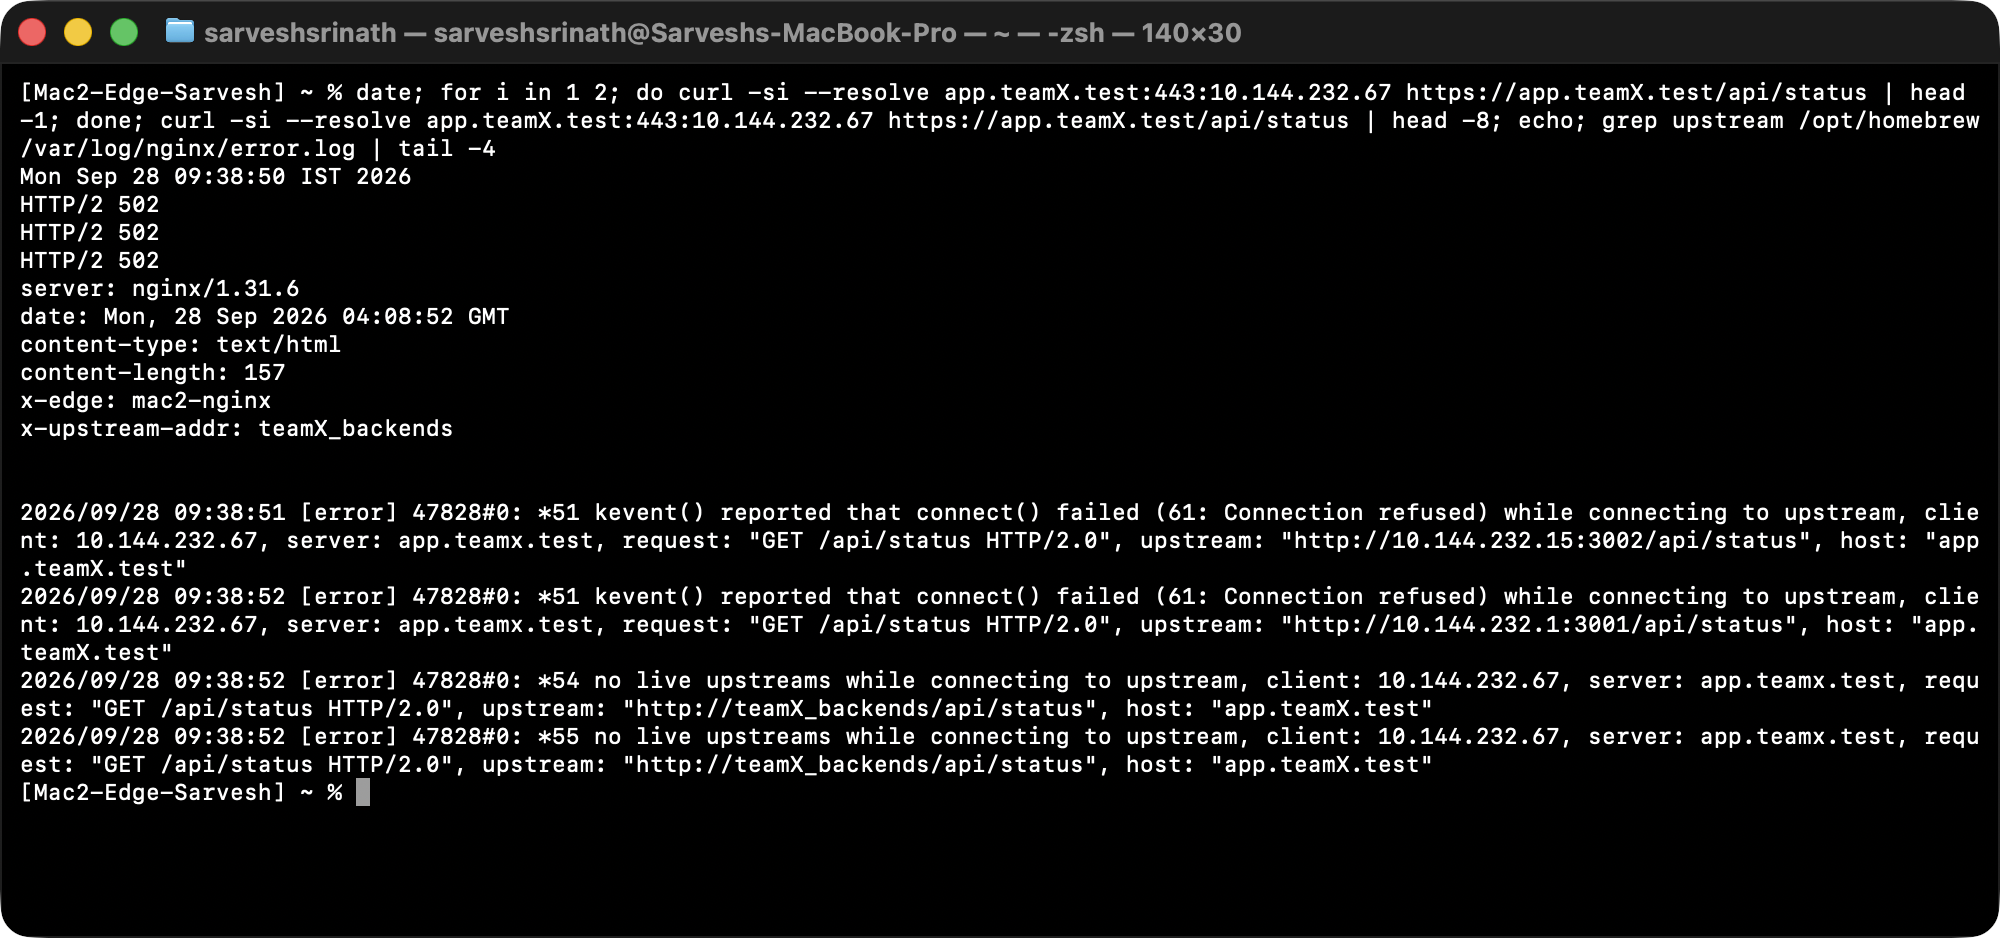
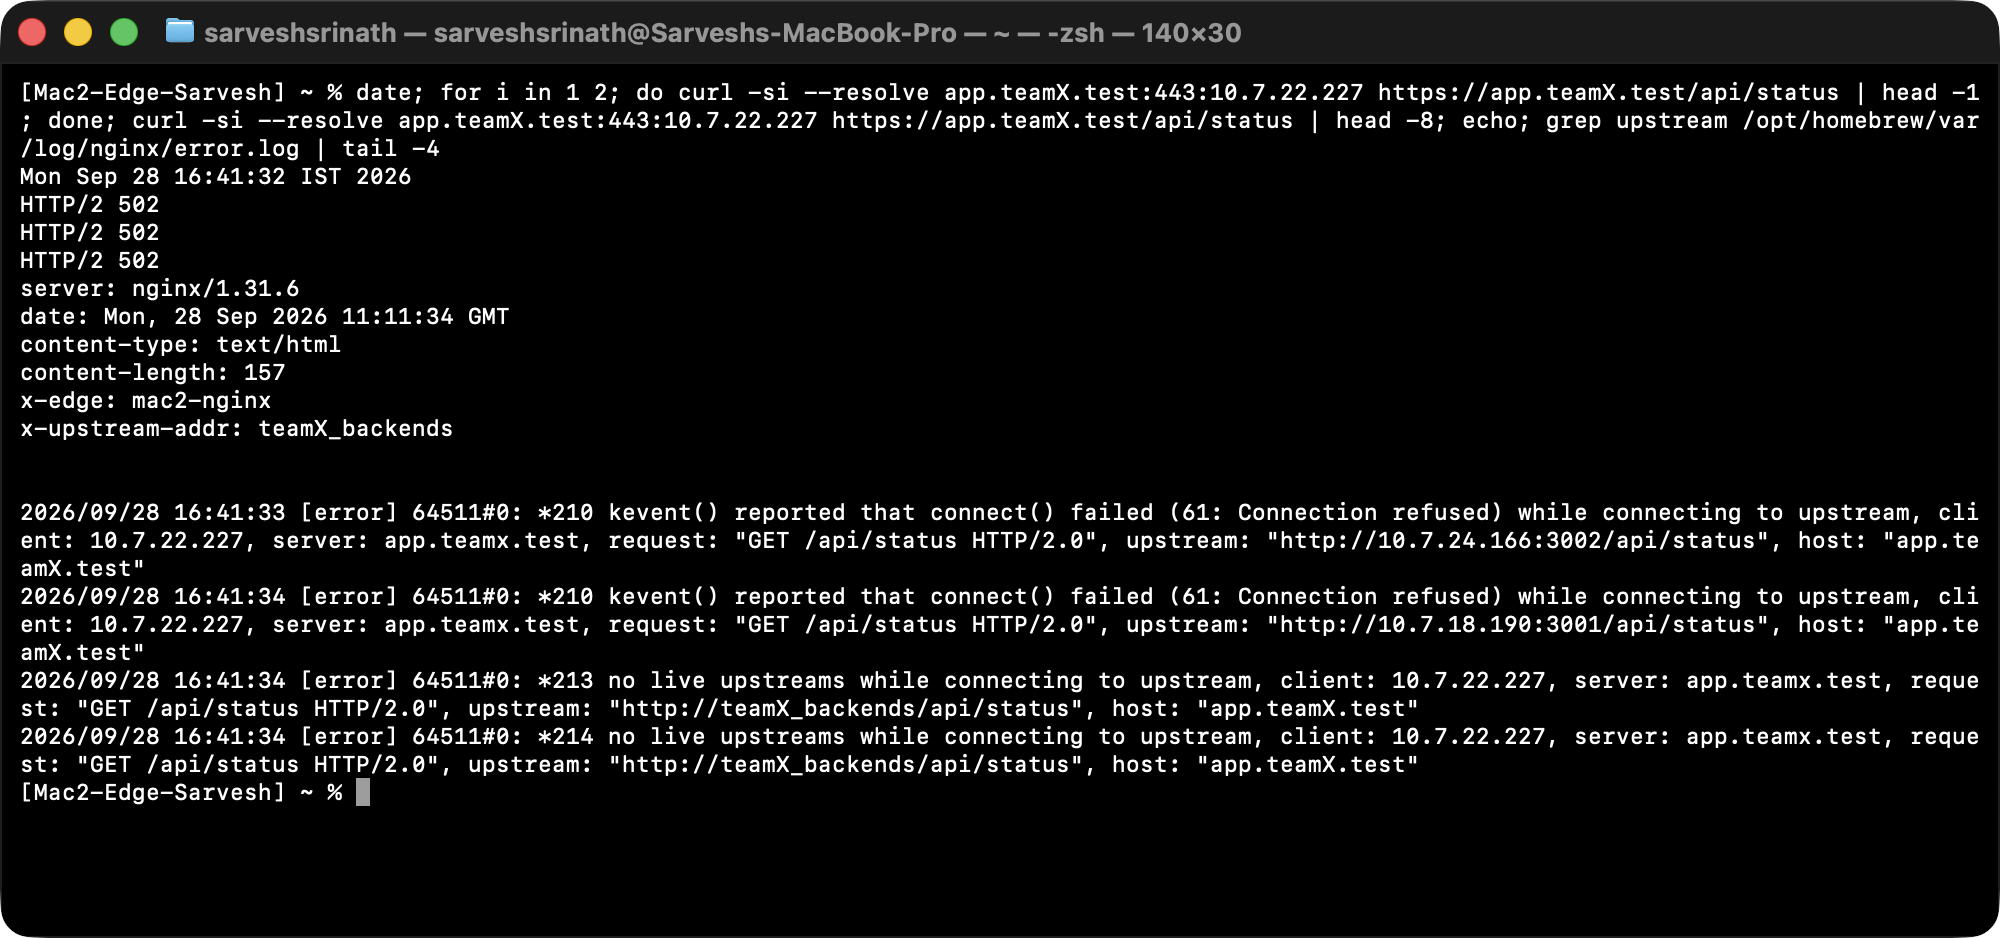
docs(phase1): move edge, IP table and diagrams to Rishihood Learners LAN
- Update IP table and architecture doc to the 10.7.0.0/19 network (gateway 10.7.0.1)
- Regenerate topology and request-flow diagrams with real addresses
- Point nginx upstreams at 10.7.18.190:3001 and 10.7.24.166:3002
- Retake Mac 2 evidence on the new network, add C-02, C-06 and H-06
- Update Navodit, Sarvesh, Trishit and team checklists with new IPs and evidence

diff --git a/06_phase1_checklists/sarvesh_mac2.md b/06_phase1_checklists/sarvesh_mac2.md
@@ -1,7 +1,7 @@
 # Sarvesh — Mac 2: edge, load balancer, and TLS
 
 **Lead:** Tasks D and E; edge side of Tasks C and G; support the backend failure demonstrations.
-**Mac 2 address in the current table:** 10.144.232.67/24 on en0; gateway 10.144.232.191. Recheck it on lab day.
+**Mac 2 address in the current table:** 10.7.22.227/19 on en0; gateway 10.7.0.1. Recheck it on lab day.
 
 Replace teamX with the assigned team number and use the current backend addresses from 01_architecture/ip_table.md.
 
@@ -23,23 +23,23 @@ Replace teamX with the assigned team number and use the current backend addresse
     route -n get default | grep -E "gateway|interface"
     networksetup -getinfo Wi-Fi
 
-- [x] Ping Macs 1, 3, and 4. Save a full-window screenshot under 04_evidence/A_lan/. Evidence: 04_evidence/A_lan/A-06_mac2_ping_all.png (0% loss to .5, .1, .15).
-- [ ] For DNS integration, set Mac 2's Wi-Fi DNS server to Mac 1 and flush the cache.
+- [x] Ping Macs 1, 3, and 4. Save a full-window screenshot under 04_evidence/A_lan/. Evidence: 04_evidence/A_lan/A-06_mac2_ping_all.png (0% loss to 10.7.10.22, 10.7.18.190, 10.7.24.166; 28 Sep 16:36).
+- [ ] For DNS integration, set Mac 2's Wi-Fi DNS server to Mac 1 and flush the cache. 28 Sep on Rishihood Learners: resolver set to 10.7.10.22 then 1.1.1.1; dig @10.7.10.22 app.teamX.test returns 10.7.22.227. macOS still holds an earlier cached failure, so the flush is pending.
 
-      sudo networksetup -setdnsservers Wi-Fi 10.144.232.5
+      sudo networksetup -setdnsservers Wi-Fi 10.7.10.22
       sudo dscacheutil -flushcache
       sudo killall -HUP mDNSResponder
       dig app.teamX.test
 
 ## 2. Confirm the backends are reachable — Tasks C and D
 
-- [ ] Ask Trishit and Husain to start their backends, then check both directly from Mac 2. The listener must be reachable on the LAN, and each response must identify its backend.
+- [x] Ask Trishit and Husain to start their backends, then check both directly from Mac 2. The listener must be reachable on the LAN, and each response must identify its backend.
 
       date
       curl -i http://<MAC3_IP>:3001/api/status
       curl -i http://<MAC4_IP>:3002/api/status
 
-   Expected: HTTP 200, X-Backend: A from Mac 3, and X-Backend: B from Mac 4. Save the output under 04_evidence/C_backends/.
+   Expected: HTTP 200, X-Backend: A from Mac 3, and X-Backend: B from Mac 4. Save the output under 04_evidence/C_backends/. Evidence: 04_evidence/C_backends/C-02_mac2_direct_curl_backendA.png, C-06_mac2_direct_curl_backendB.png (28 Sep 16:36).
 
 ## 3. Configure nginx as the HTTPS edge and load balancer — Tasks D and E
 
@@ -100,7 +100,7 @@ Replace teamX with the assigned team number and use the current backend addresse
           }
       }
 
-   Done: 02_config/nginx-teamX.conf (installed as /opt/homebrew/etc/nginx/servers/teamX.conf), upstreams 10.144.232.1:3001 and 10.144.232.15:3002. Evidence: 04_evidence/D_loadbalancing/D-01_mac2_nginx_conf.png.
+   Done: 02_config/nginx-teamX.conf (installed as /opt/homebrew/etc/nginx/servers/teamX.conf), upstreams 10.7.18.190:3001 and 10.7.24.166:3002. Evidence: 04_evidence/D_loadbalancing/D-01_mac2_nginx_conf.png.
 
    Nginx's upstream default is round robin. If port 80/443 cannot be used, change to 8080/8443; the PDF permits this. Use those ports consistently in the URLs, firewall rules, evidence, and demo.
 
@@ -127,7 +127,7 @@ Replace teamX with the assigned team number and use the current backend addresse
         curl -s -D - -o /dev/null https://app.teamX.test/api/status | grep -iE "^HTTP|x-backend|x-upstream"
       done
 
-   Evidence: 04_evidence/D_loadbalancing/D-03_mac2_access_log_alternating.png (run on Mac 2 with --resolve before Mac 1 DNS was live; client-side run pending).
+   Evidence: 04_evidence/D_loadbalancing/D-03_mac2_access_log_alternating.png (run on Mac 2 with --resolve, 28 Sep 16:36; client-side run by name pending).
 
    Save full command output under 04_evidence/D_loadbalancing/. Open the URL in a browser and capture one response from A and one from B if browser evidence is requested.
 
@@ -145,8 +145,8 @@ Replace teamX with the assigned team number and use the current backend addresse
 
 ## 5. Demonstrate backend failures — Task H
 
-- [ ] With Trishit, stop Backend A using Ctrl+C. Send requests through the HTTPS name; nginx should retry Backend B and return success. Capture response headers and nginx log under 04_evidence/H_failures/.
-- [x] Stop both backends. Show that the edge still resolves and completes TLS but returns HTTP 502. Save evidence, then restart both services and verify A/B balancing again. Evidence: 04_evidence/H_failures/H-04_both_backends_down_502.png; restored 28 Sep and A/B alternation observed (no screenshot).
+- [x] With Trishit, stop Backend A using Ctrl+C. Send requests through the HTTPS name; nginx should retry Backend B and return success. Capture response headers and nginx log under 04_evidence/H_failures/. Evidence: 04_evidence/H_failures/H-06_mac2_one_backend_stopped_edge_log.png (Rishihood Learners, 28 Sep 16:42): six 200s from B, first request retried A then B. Trishit's client view (H-03) and the A restart check are separate.
+- [x] Stop both backends. Show that the edge still resolves and completes TLS but returns HTTP 502. Save evidence, then restart both services and verify A/B balancing again. \1 (Rishihood Learners, 28 Sep 16:41): 502 from nginx, both upstreams refused, then no live upstreams. Both restored 28 Sep 16:44; A/B alternation observed again.
 - [ ] Help Husain demonstrate an unused client destination port and explain the resulting TCP refusal/reset.
 
 ## 6. Before the review

diff --git a/01_architecture/architecture_doc.md b/01_architecture/architecture_doc.md
@@ -39,18 +39,18 @@ hostname rather than selecting a backend directly.
 
 | Mac   | Person  | Role               | Interface | IPv4            | Prefix / mask         | Gateway          | MAC address         | Listening ports |
 | ----- | ------- | ------------------ | --------- | --------------- | --------------------- | ---------------- | ------------------- | --------------- |
-| Mac 1 | Navodit | DNS + client       | `en0`     | `10.144.232.5`  | `/24 (255.255.255.0)` | `10.144.232.191` | `10:9f:41:bc:ff:5a` | `53 UDP/TCP`    |
-| Mac 2 | Sarvesh | Edge / LB / TLS    | `en0`     | `10.144.232.67` | `/24 (255.255.255.0)` | `10.144.232.191` | `7a:62:d1:c7:63:6c` | `80, 443 TCP`   |
-| Mac 3 | Trishit | Backend A          | `en0`     | `10.144.232.1`  | `/24 (255.255.255.0)` | `10.144.232.191` | `3e:1b:0f:b0:84:64` | `3001 TCP`      |
-| Mac 4 | Husain  | Backend B + client | `en0`     | `10.144.232.15` | `/24 (255.255.255.0)` | `10.144.232.191` | `92:f0:37:09:fa:53` | `3002 TCP`      |
+| Mac 1 | Navodit | DNS + client       | `en0`     | `10.7.10.22`  | `/19 (255.255.224.0)` | `10.7.0.1` | `10:9f:41:bc:ff:5a` | `53 UDP/TCP`    |
+| Mac 2 | Sarvesh | Edge / LB / TLS    | `en0`     | `10.7.22.227` | `/19 (255.255.224.0)` | `10.7.0.1` | `3a:33:4b:89:be:dc` | `80, 443 TCP`   |
+| Mac 3 | Trishit | Backend A          | `en0`     | `10.7.18.190`  | `/19 (255.255.224.0)` | `10.7.0.1` | `be:4f:1d:91:b1:8b` | `3001 TCP`      |
+| Mac 4 | Husain  | Backend B + client | `en0`     | `10.7.24.166` | `/19 (255.255.224.0)` | `10.7.0.1` | `6e:5a:77:e4:01:0c` | `3002 TCP`      |
 
-The listed addresses are recorded snapshots and should be rechecked on the
-project LAN. Trishit's 28 September 2026 output reports `10.144.232.1`, a
-`/24` mask, and gateway `10.144.232.191`. `ifconfig en0` reports MAC
-`3e:1b:0f:b0:84:64`, which matches the LAN neighbor entry for that IP;
-`networksetup` separately reports `10:9f:41:c1:7f:a5` as the Wi-Fi Ethernet
-Address / Wi-Fi ID. Verify which MAC address should be recorded before final
-submission. The full editable table and collection commands are in [ip_table.md](ip_table.md).
+Values recorded on the Rishihood Learners network on 28 September 2026.
+Mac 2's IPv4, `/19` prefix (`255.255.224.0`), gateway `10.7.0.1` and MAC come
+from its own `ifconfig en0` and `route -n get default`. The other three MAC
+addresses are the active Wi-Fi addresses seen in Mac 2's ARP table
+(`arp -n <IP>`); each owner should confirm theirs with `ifconfig en0`.
+Recheck all values if any Mac rejoins or changes network.
+The full editable table and collection commands are in [ip_table.md](ip_table.md).
 
 ## 5. Components and request path
 
@@ -93,7 +93,7 @@ alternates cleanly between the backends. The full config is
 
 | Item | Value |
 | --- | --- |
-| Upstream `teamX_backends` | `10.144.232.1:3001` (A), `10.144.232.15:3002` (B), round-robin |
+| Upstream `teamX_backends` | `10.7.18.190:3001` (A), `10.7.24.166:3002` (B), round-robin |
 | Failover | `max_fails=1 fail_timeout=10s`, `proxy_next_upstream error timeout http_502 http_503`, `proxy_connect_timeout 2s` |
 | Port 80 | `301` redirect to HTTPS |
 | Port 443 | TLS 1.2 and 1.3, HTTP/2 via ALPN, names `app.teamX.test` and `api.teamX.test` |
@@ -139,8 +139,8 @@ The complete system is ready for the review when all of these checks pass:
 
 - The four Macs share the private LAN, their IP table is complete, and the
   ping mesh succeeds.
-- Mac 2 can reach both `http://<MAC3_IP>:3001/api/status` and
-  `http://<MAC4_IP>:3002/api/status`.
+- Mac 2 can reach both `http://10.7.18.190:3001/api/status` and
+  `http://10.7.24.166:3002/api/status`.
 - Clients use Mac 1 for DNS and receive Mac 2's address for `app.teamX.test`.
 - HTTPS succeeds by hostname without `-k`, and repeated requests identify
   both backends.

diff --git a/06_phase1_checklists/trishit_mac3.md b/06_phase1_checklists/trishit_mac3.md
@@ -1,7 +1,7 @@
 # Trishit — Mac 3: Backend A, caching, and architecture package
 
 **Lead:** Backend A in Task C, Task F (caching), architecture document and package, and the one-backend-stopped demonstration.
-**Mac 3 address in the current table:** 10.144.232.1/24 on en0; gateway 10.144.232.191. Recheck on lab day.
+**Mac 3 address in the current table:** 10.7.18.190/19 on en0; gateway 10.7.0.1. Recheck on lab day.
 
 The shared source is 03_backend_code/server.py. It runs as A or B depending on BACKEND_ID and PORT. Replace teamX with the assigned team number where it appears in commands and diagrams.
 
@@ -10,7 +10,7 @@ The shared source is 03_backend_code/server.py. It runs as A or B depending on B
 ## 1. Join and check the LAN — Task A
 
 - [x] Mac 3's current recorded IP, prefix, gateway, and ifconfig MAC are in 01_architecture/architecture_doc.md and 01_architecture/ip_table.md.
-- [ ] Recheck Mac 3 on the lab LAN. ifconfig reported MAC 3e:1b:0f:b0:84:64, while networksetup reported Wi-Fi ID 10:9f:41:c1:7f:a5. Confirm which identifier is active and correct the shared table if needed.
+- [ ] Recheck Mac 3 on the lab LAN. ifconfig reported MAC be:4f:1d:91:b1:8b, while networksetup reported Wi-Fi ID 10:9f:41:c1:7f:a5. Confirm which identifier is active and correct the shared table if needed.
 - [ ] Label the terminal, keep the Mac awake, and ping Macs 1, 2, and 4.
 
       export PS1="[Mac3-BackendA-Trishit] %~ %# "
@@ -20,9 +20,9 @@ The shared source is 03_backend_code/server.py. It runs as A or B depending on B
       ipconfig getifaddr en0
       ifconfig en0 | grep -E "ether|inet "
       route -n get default | grep -E "gateway|interface"
-      ping -c 4 <MAC1_IP>
-      ping -c 4 <MAC2_IP>
-      ping -c 4 <MAC4_IP>
+      ping -c 4 10.7.10.22
+      ping -c 4 10.7.22.227
+      ping -c 4 10.7.24.166
 
    Save Mac 3's network and ping evidence under 04_evidence/A_lan/.
 
@@ -42,7 +42,7 @@ The shared source is 03_backend_code/server.py. It runs as A or B depending on B
 
    The listener should be *:3001 or 0.0.0.0:3001, not only 127.0.0.1. Save a full-window screenshot under 04_evidence/C_backends/.
 
-- [ ] Ask Sarvesh to run curl -i http://<MAC3_IP>:3001/api/status from Mac 2. Confirm HTTP 200, X-Backend: A, and JSON showing backend A. Save the result under 04_evidence/C_backends/.
+- [ ] Ask Sarvesh to run curl -i http://10.7.18.190:3001/api/status from Mac 2. Confirm HTTP 200, X-Backend: A, and JSON showing backend A. Save the result under 04_evidence/C_backends/.
 
 ## 3. Demonstrate HTTP caching — Task F
 

diff --git a/01_architecture/ip_table.md b/01_architecture/ip_table.md
@@ -2,19 +2,17 @@
 
 | Mac   | Person  | Role               | Interface | IPv4            | Prefix / mask         | Gateway          | MAC address         | Listening ports |
 | ----- | ------- | ------------------ | --------- | --------------- | --------------------- | ---------------- | ------------------- | --------------- |
-| Mac 1 | Navodit | DNS + client       | `en0`     | `10.144.232.5`  | `/24 (255.255.255.0)` | `10.144.232.191` | `10:9f:41:bc:ff:5a` | `53 UDP/TCP`    |
-| Mac 2 | Sarvesh | Edge / LB / TLS    | `en0`     | `10.144.232.67` | `/24 (255.255.255.0)` | `10.144.232.191` | `7a:62:d1:c7:63:6c` | `80, 443 TCP`   |
-| Mac 3 | Trishit | Backend A          | `en0`     | `10.144.232.1`  | `/24 (255.255.255.0)` | `10.144.232.191` | `3e:1b:0f:b0:84:64` | `3001 TCP`      |
-| Mac 4 | Husain  | Backend B + client | `en0`     | `10.144.232.15` | `/24 (255.255.255.0)` | `10.144.232.191` | `92:f0:37:09:fa:53` | `3002 TCP`      |
+| Mac 1 | Navodit | DNS + client       | `en0`     | `10.7.10.22`  | `/19 (255.255.224.0)` | `10.7.0.1` | `10:9f:41:bc:ff:5a` | `53 UDP/TCP`    |
+| Mac 2 | Sarvesh | Edge / LB / TLS    | `en0`     | `10.7.22.227` | `/19 (255.255.224.0)` | `10.7.0.1` | `3a:33:4b:89:be:dc` | `80, 443 TCP`   |
+| Mac 3 | Trishit | Backend A          | `en0`     | `10.7.18.190`  | `/19 (255.255.224.0)` | `10.7.0.1` | `be:4f:1d:91:b1:8b` | `3001 TCP`      |
+| Mac 4 | Husain  | Backend B + client | `en0`     | `10.7.24.166` | `/19 (255.255.224.0)` | `10.7.0.1` | `6e:5a:77:e4:01:0c` | `3002 TCP`      |
 
-Mac 3's values come from Trishit's `en0` output on 28 September 2026: IPv4
-`10.144.232.1`, prefix `/24` (`255.255.255.0`), and gateway `10.144.232.191`.
-`ifconfig en0` reports MAC `3e:1b:0f:b0:84:64`; this matches the LAN neighbor
-entry for `10.144.232.1`. The same output lists `10:9f:41:c1:7f:a5` as the
-Wi-Fi Ethernet Address / Wi-Fi ID, so verify which MAC should be recorded
-before final submission. All addresses should be rechecked on the project
-LAN, since DHCP or the selected Wi-Fi network can change them. Mac 1's values
-are still pending.
+Values recorded on the Rishihood Learners network on 28 September 2026.
+Mac 2's IPv4, `/19` prefix (`255.255.224.0`), gateway `10.7.0.1` and MAC come
+from its own `ifconfig en0` and `route -n get default`. The other three MAC
+addresses are the active Wi-Fi addresses seen in Mac 2's ARP table
+(`arp -n <IP>`); each owner should confirm theirs with `ifconfig en0`.
+Recheck all values if any Mac rejoins or changes network.
 
 On each Mac, capture its row data with:
 

diff --git a/06_phase1_checklists/team_overview.md b/06_phase1_checklists/team_overview.md
@@ -12,12 +12,12 @@ Individual instructions: [Navodit / Mac 1 — DNS and client](navodit_mac1.md), 
 
 | Mac | Person | Role | Current recorded IPv4 | Service/port |
 | --- | --- | --- | --- | --- |
-| Mac 1 | Navodit | DNS + client | 10.144.232.5/24 | dnsmasq, UDP/TCP 53 |
-| Mac 2 | Sarvesh | Edge / load balancer / TLS | 10.144.232.67/24 | nginx, TCP 80/443 |
-| Mac 3 | Trishit | Backend A | 10.144.232.1/24 | Python, TCP 3001 |
-| Mac 4 | Husain | Backend B + client | 10.144.232.15/24 | Python, TCP 3002 |
+| Mac 1 | Navodit | DNS + client | 10.7.10.22/19 | dnsmasq, UDP/TCP 53 |
+| Mac 2 | Sarvesh | Edge / load balancer / TLS | 10.7.22.227/19 | nginx, TCP 80/443 |
+| Mac 3 | Trishit | Backend A | 10.7.18.190/19 | Python, TCP 3001 |
+| Mac 4 | Husain | Backend B + client | 10.7.24.166/19 | Python, TCP 3002 |
 
-Recorded default gateway for all: 10.144.232.191. Recheck every value on the final LAN. Mac 3's ifconfig MAC is recorded as 3e:1b:0f:b0:84:64 and differs from the Wi-Fi ID printed by networksetup; Trishit should confirm the active LAN MAC.
+Recorded on the Rishihood Learners network, 28 Sep 2026. Default gateway for all: 10.7.0.1. Recheck every value if the network changes.
 
 ### What is already in the first commit on main
 
@@ -52,7 +52,7 @@ For each demo: record the failure, explain the layer, restore the working config
 - [ ] **Wrong DNS server — Navodit/client:** lookup fails but direct IP reachability remains. Save failure and recovery under 04_evidence/H_failures/.
 - [ ] **Wrong DNS record — Navodit:** lookup returns an incorrect address; show the wrong destination, restore Mac 2's IP, and verify the correct answer.
 - [ ] **Stop Backend A — Trishit + Sarvesh:** requests continue through B; restart A and prove A/B balancing returns.
-- [x] **Stop both backends — Sarvesh + backend owners:** edge returns HTTP 502; restart both and confirm normal service. Evidence: 04_evidence/H_failures/H-04_both_backends_down_502.png; restored 28 Sep, A/B observed.
+- [x] **Stop both backends — Sarvesh + backend owners:** edge returns HTTP 502; restart both and confirm normal service. Evidence: 04_evidence/H_failures/H-04_both_backends_down_502.png (Rishihood Learners, 28 Sep 16:41). Both restored 28 Sep 16:44; A/B alternation observed again.
 - [ ] **Wrong destination port — Husain:** correct host, unused port; show RST/refusal or timeout if filtered, explain IP versus port, restore and recheck 443.
 
 ## Evidence and submission folder

diff --git a/06_phase1_checklists/navodit_mac1.md b/06_phase1_checklists/navodit_mac1.md
@@ -1,7 +1,7 @@
 # Navodit — Mac 1: private DNS and client
 
 **Lead:** Task B (DNS) and the two DNS failure demonstrations.
-**Mac 1 address in the current table:** 10.144.232.5/24 on en0; gateway 10.144.232.191. Recheck it on lab day.
+**Mac 1 address in the current table:** 10.7.10.22/19 on en0; gateway 10.7.0.1. Recheck it on lab day.
 
 This file is a do-it-yourself Phase 1 guide. Replace teamX with the team number, and replace any IP placeholder if the shared table changes.
 
@@ -44,15 +44,15 @@ This file is a do-it-yourself Phase 1 guide. Replace teamX with the team number,
 3. Create 02_config/dnsmasq-teamX.conf. Use the current IPs from the shared table:
 
        port=53
-       listen-address=127.0.0.1,10.144.232.5
+       listen-address=127.0.0.1,10.7.10.22
        bind-interfaces
        domain-needed
        bogus-priv
        local-ttl=60
-       address=/app.teamX.test/10.144.232.67
-       address=/api.teamX.test/10.144.232.67
+       address=/app.teamX.test/10.7.22.227
+       address=/api.teamX.test/10.7.22.227
 
-   Change teamX to your team number. Change 10.144.232.5 if Mac 1's address changes. Both names must point to Mac 2, not to a backend.
+   Change teamX to your team number. Change 10.7.10.22 if Mac 1's address changes. Both names must point to Mac 2, not to a backend.
 
 - [ ] Check the config syntax. If port 53 is already in use, identify the process before changing anything.
 
@@ -65,7 +65,7 @@ This file is a do-it-yourself Phase 1 guide. Replace teamX with the team number,
 
 - [ ] From another Mac, point Wi-Fi DNS to Mac 1. Do this on at least two client Macs; each owner should save their own proof.
 
-      sudo networksetup -setdnsservers Wi-Fi 10.144.232.5
+      sudo networksetup -setdnsservers Wi-Fi 10.7.10.22
       sudo dscacheutil -flushcache
       sudo killall -HUP mDNSResponder
 
@@ -90,11 +90,11 @@ This file is a do-it-yourself Phase 1 guide. Replace teamX with the team number,
       sudo killall -HUP mDNSResponder
       date
       dig app.teamX.test
-      ping -c 2 10.144.232.67
+      ping -c 2 10.7.22.227
 
 - [ ] Restore Mac 1 as that client's resolver and prove lookup works again.
 
-      sudo networksetup -setdnsservers Wi-Fi 10.144.232.5
+      sudo networksetup -setdnsservers Wi-Fi 10.7.10.22
       sudo dscacheutil -flushcache
       sudo killall -HUP mDNSResponder
       dig app.teamX.test

diff --git a/02_config/tls_setup_notes.md b/02_config/tls_setup_notes.md
@@ -3,7 +3,7 @@
 
 # TLS setup notes (Mac 2 edge)
 
-Mac 2 (`10.144.232.67`) terminates HTTPS for `app.teamX.test` and
+Mac 2 (`10.7.22.227`) terminates HTTPS for `app.teamX.test` and
 `api.teamX.test` with a certificate signed by the team's own root CA. Clients
 trust the root CA once; the server certificate can then be reissued without
 touching any client.
@@ -120,17 +120,17 @@ curl -v https://app.teamX.test/api/status 2>&1 | grep -E "SSL connection|ALPN|su
 curl -sI --http1.1 https://app.teamX.test/api/status | head -1      # HTTP/1.1 200
 curl -sI           https://app.teamX.test/api/status | head -1      # HTTP/2 200
 
-openssl s_client -connect 10.144.232.67:443 -servername app.teamX.test \
+openssl s_client -connect 10.7.22.227:443 -servername app.teamX.test \
   -CAfile teamX-rootCA.crt </dev/null 2>/dev/null | grep -E "Protocol|Verify return"
 # Protocol: TLSv1.3, Verify return code: 0 (ok)
 
 # the certificate nginx serves is the one on disk
-openssl s_client -connect 10.144.232.67:443 -servername app.teamX.test </dev/null 2>/dev/null \
+openssl s_client -connect 10.7.22.227:443 -servername app.teamX.test </dev/null 2>/dev/null \
   | openssl x509 -noout -fingerprint -sha256
 openssl x509 -in app.teamX.test.crt -noout -fingerprint -sha256
 ```
 
-Before Mac 1's DNS is live, add `--resolve app.teamX.test:443:10.144.232.67`
+Before Mac 1's DNS is live, add `--resolve app.teamX.test:443:10.7.22.227`
 to the curl commands. It skips DNS only; SNI and certificate validation still
 use the hostname.
 
